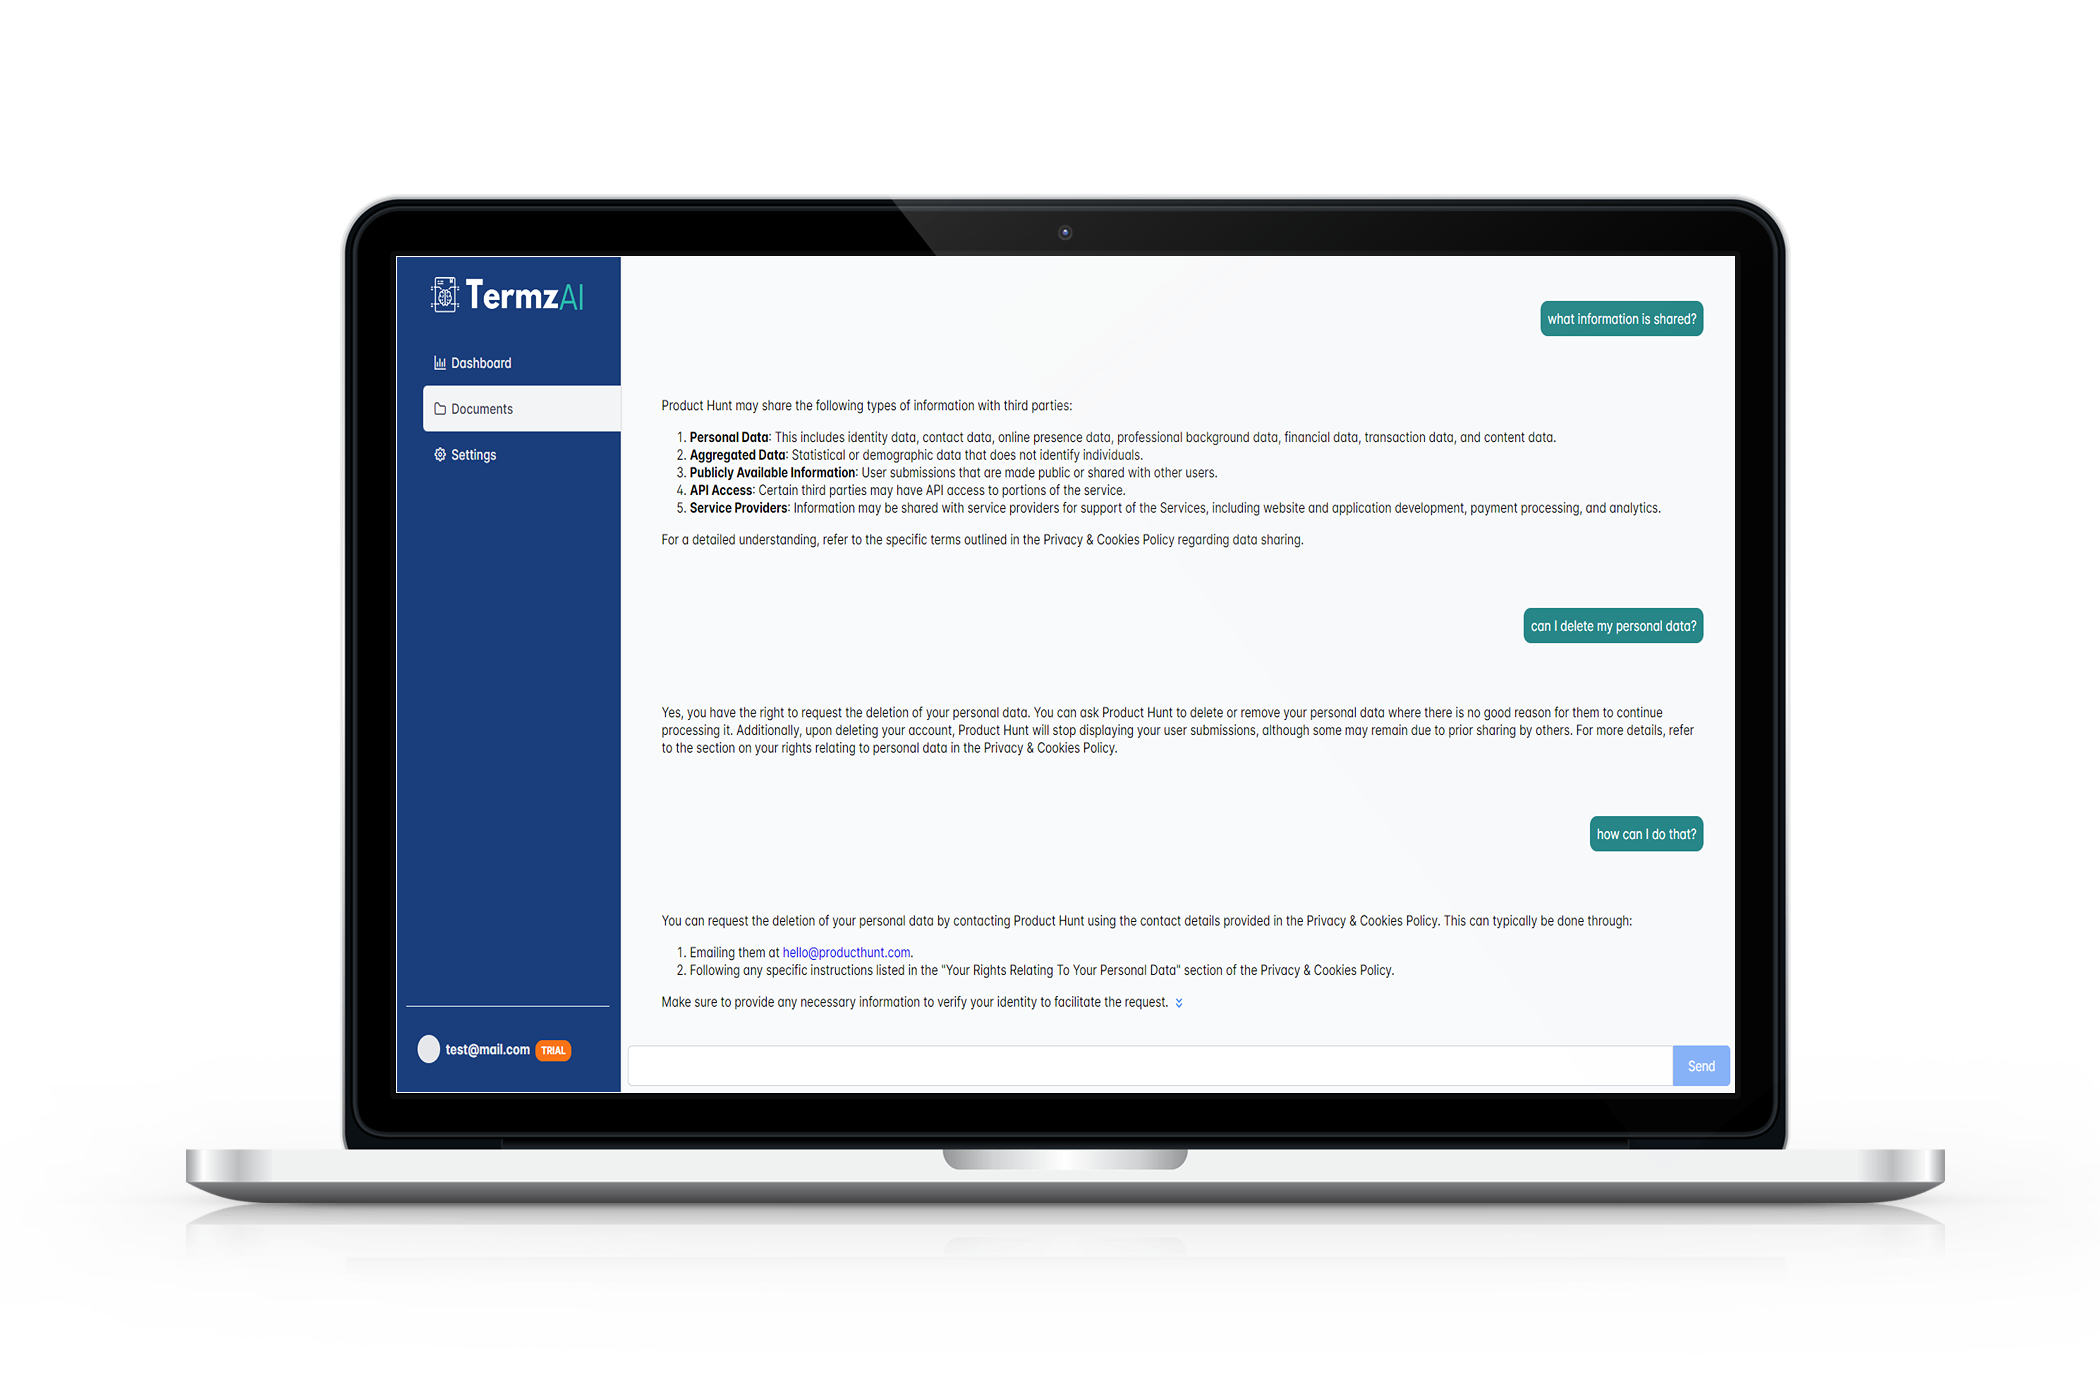
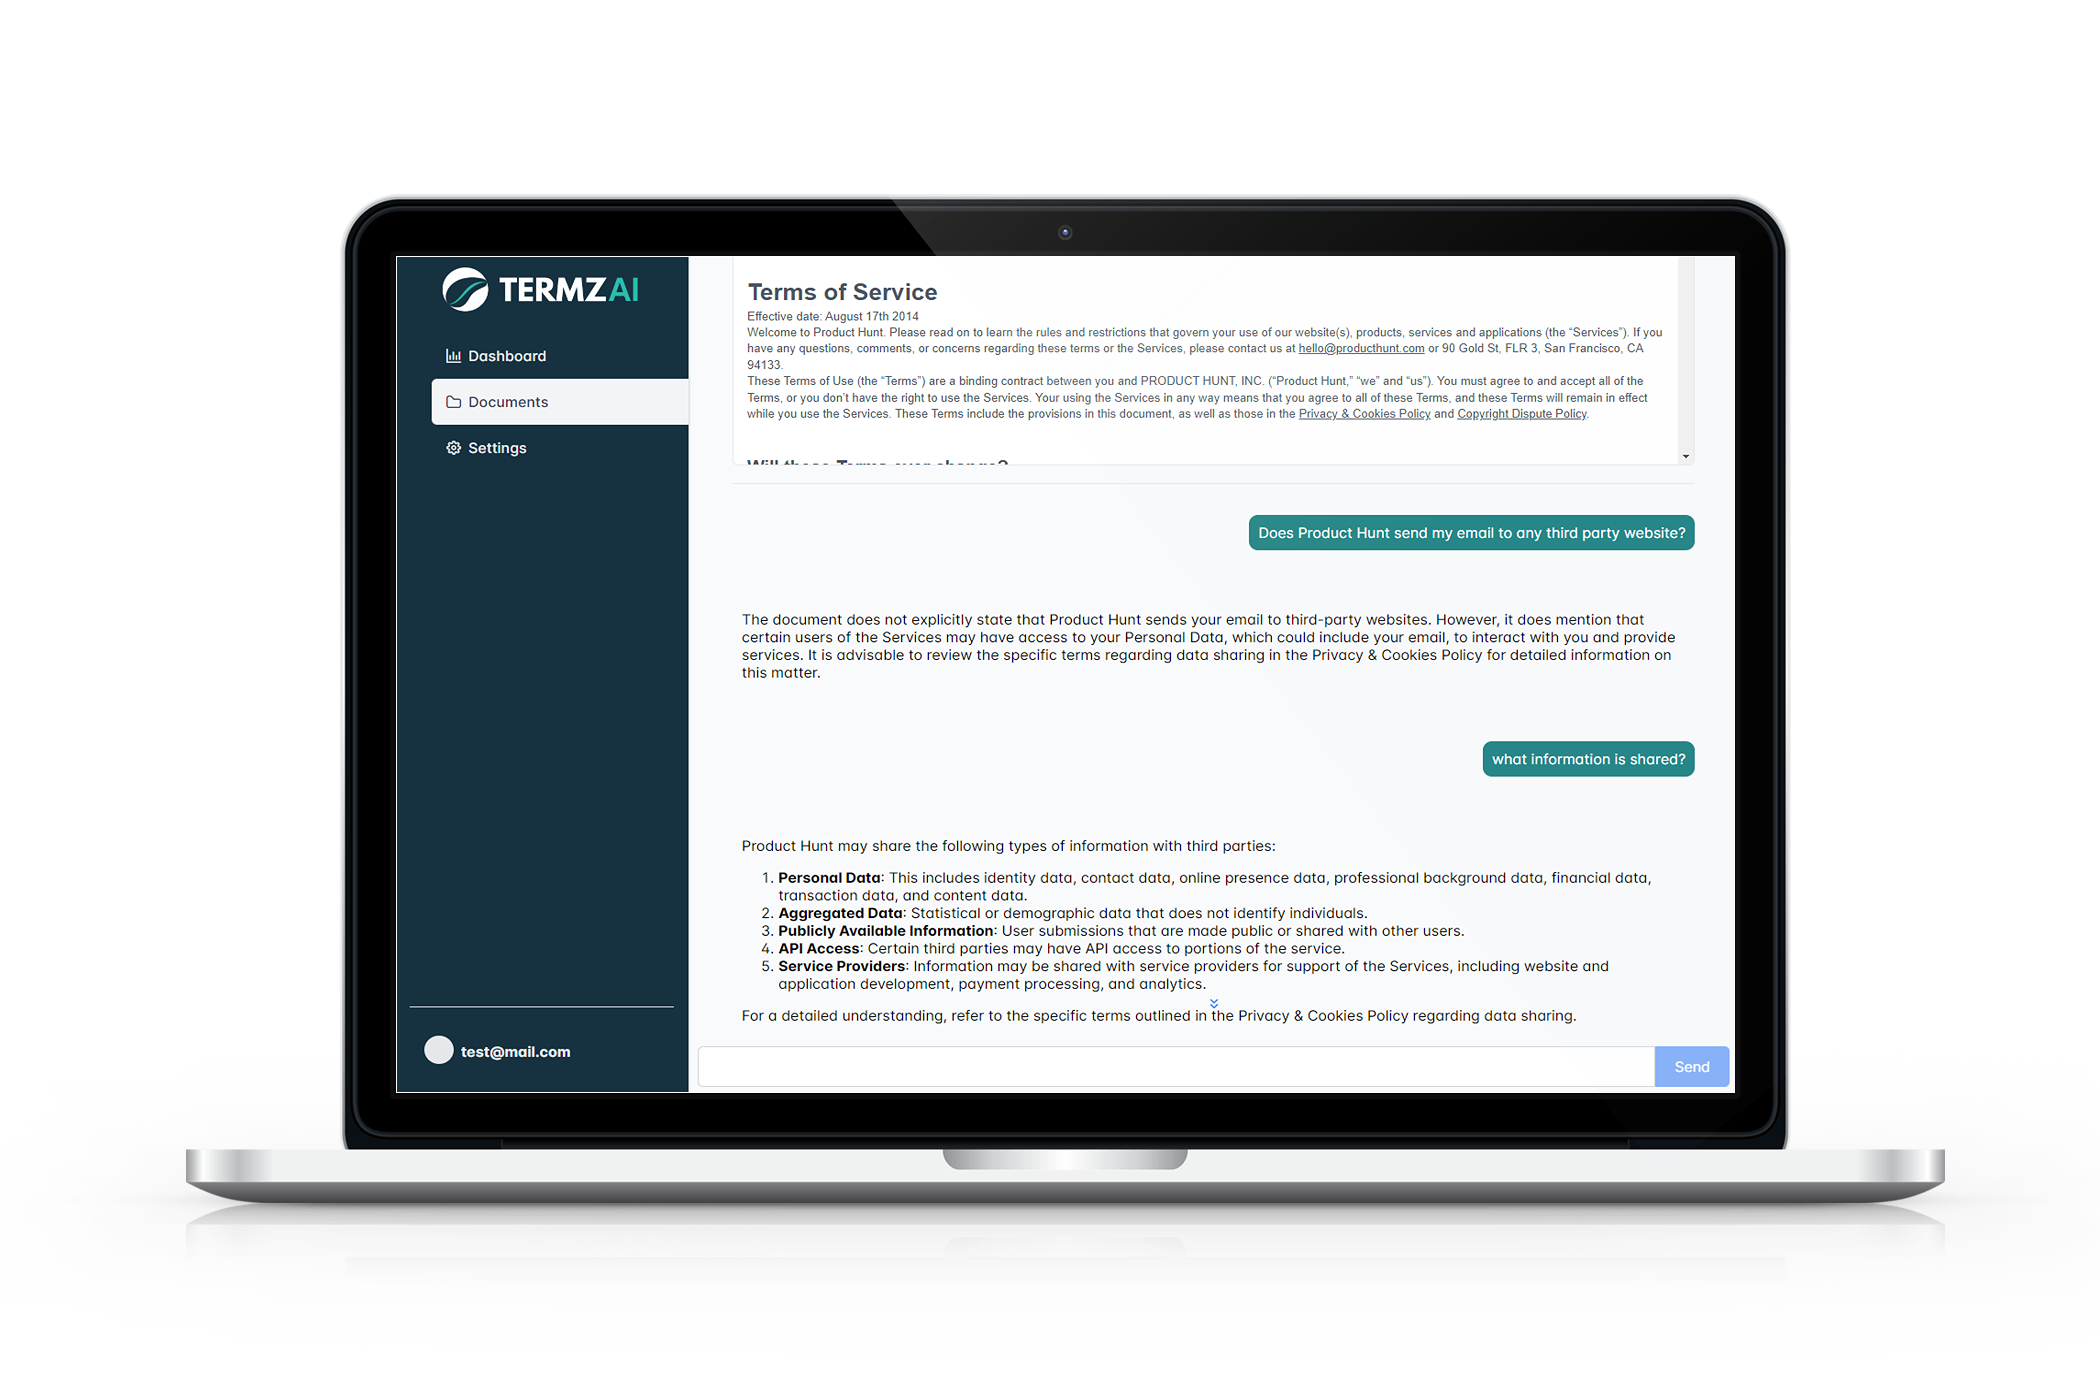
fix quill editor & some css changes

Changed region(s): [[0.1857, 0.1843, 0.8357, 0.7986], [0.7738, 0.7371, 0.8357, 0.7986]]

diff --git a/src/app/components/landing/landing.component.html b/src/app/components/landing/landing.component.html
@@ -35,7 +35,7 @@
     <div class="p-3 lg:px-6 text-center mt-60">
         <div class="surface-900 text-0 p-2 mx-auto mb-4" style="max-width: 250px; border-radius: 40px;">🔥 Join The Waitlist</div>
         <div class="text-6xl lg:text-6xl text-900 font-bold mb-1">Unlock the Power of AI</div>
-        <div class="text-5xl lg:text-6xl text-primary font-bold mb-4">for Legal Terms</div>
+        <div class="text-5xl lg:text-6xl font-bold mb-4" style="background: linear-gradient(45deg, #00E08F, #178bce);background-clip: text;-webkit-text-fill-color: transparent;">for Legal Terms</div>
         <p class="text-gray-500 text-xl lg:w-4 mx-auto">Tired of deciphering complex legal documents? TermzAI uses AI to provide clear answers to your legal questions, saving you time and effort.</p>
         <p-inputGroup class="w-full lg:w-30rem mx-auto mt-6">
             <input

diff --git a/src/app/components/auth/sign-in/sign-in.component.html b/src/app/components/auth/sign-in/sign-in.component.html
@@ -43,12 +43,9 @@
                 pripple
                 label="Sign In"
                 icon="pi pi-user"
-                class="p-element p-ripple w-full p-button p-component mt-2  bg-primary"
+                class="w-full mt-2 bg-primary"
                 (click)="signIn()"
             >
-                <span class="p-button-icon p-button-icon-left pi pi-user" aria-hidden="true"></span>
-                <span class="p-button-label">Sign In</span>
-                <span class="p-ink"></span>
             </button>
 
             <p-divider class="mx-auto"></p-divider>

diff --git a/src/styles.scss b/src/styles.scss
@@ -17,5 +17,5 @@
 }
 
 :root {
-    --primary-color: #1e87b9;
+    --primary-color: #16313f;
 }
